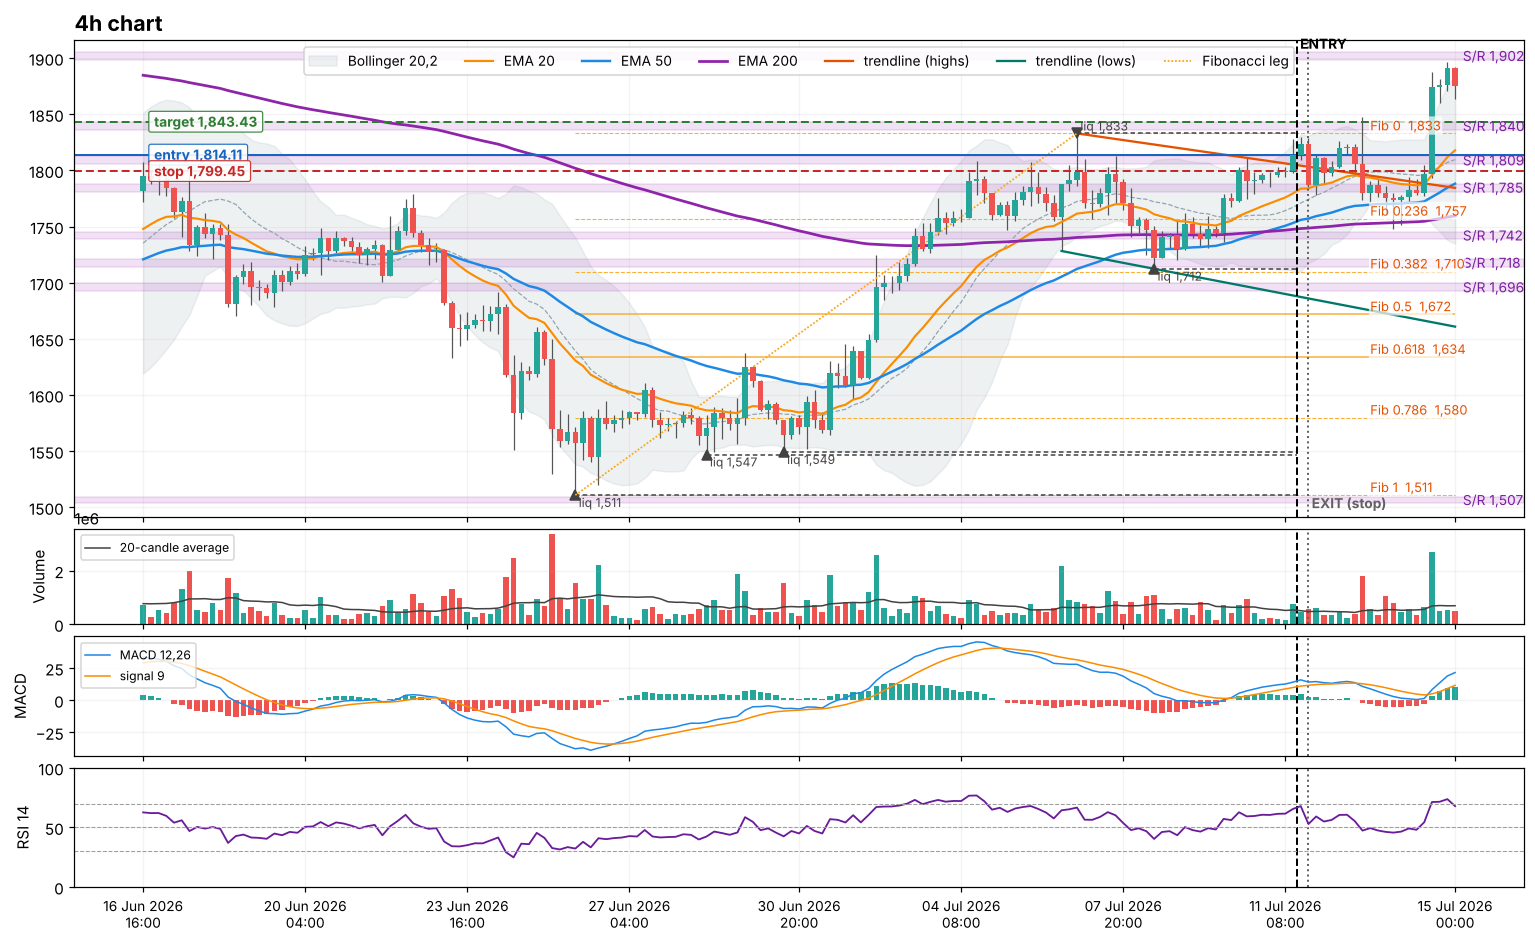
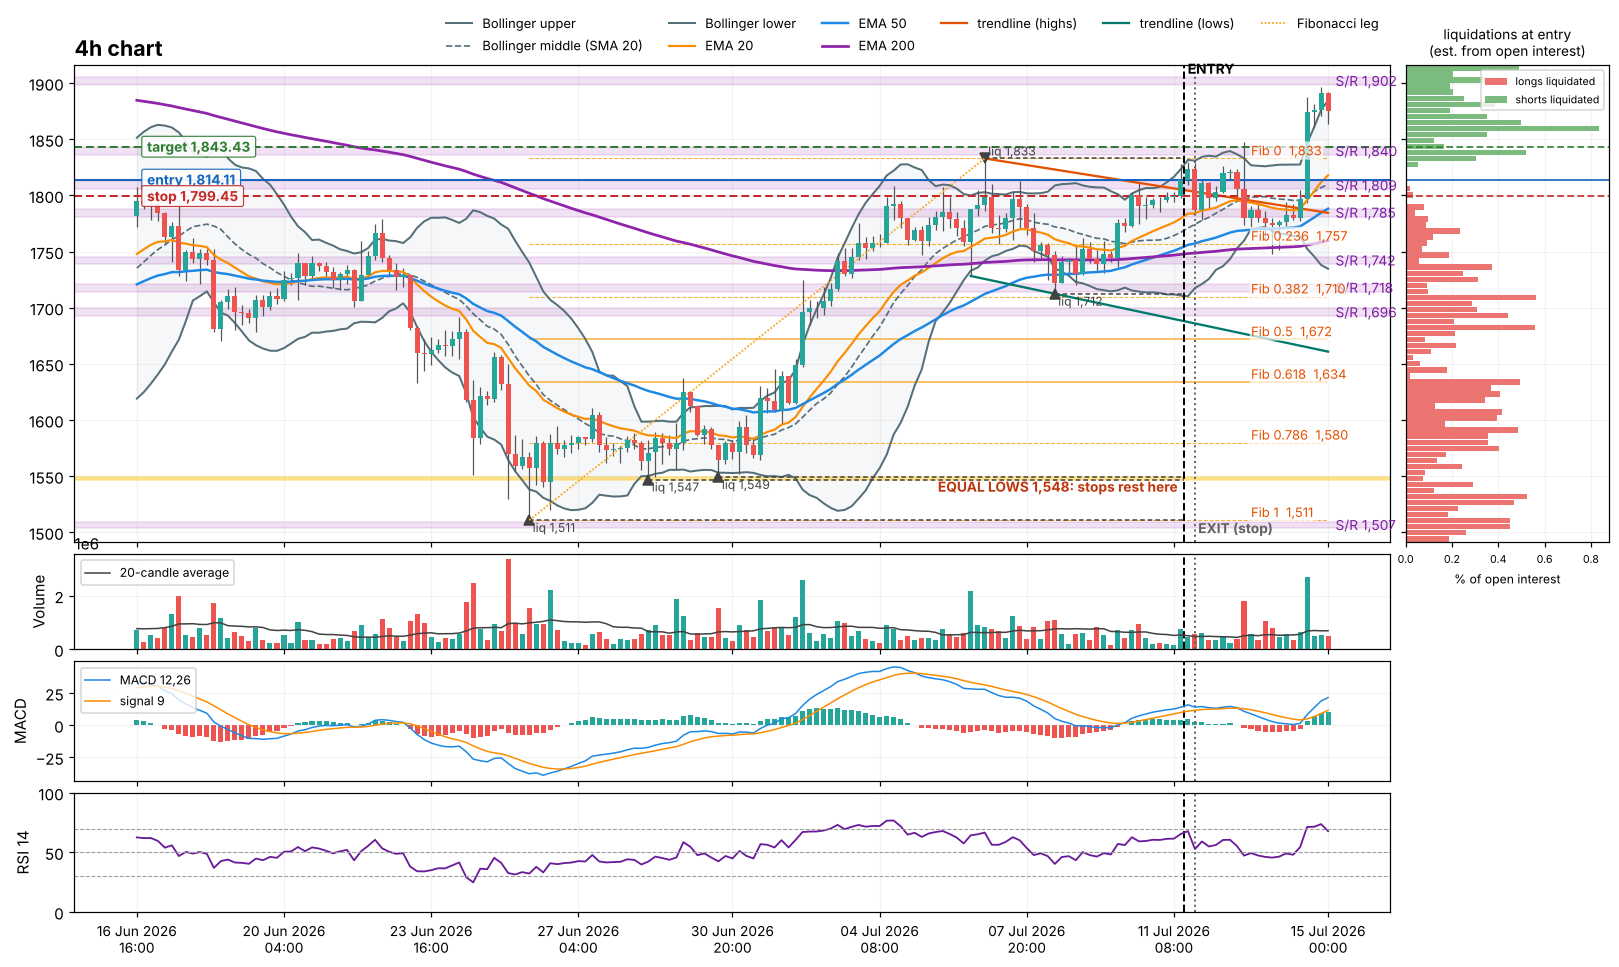
Journal charts: Bollinger upper/middle/lower lines, equal highs/lows, liquidation panel from open interest
Claude-Session: https://claude.ai/code/session_01Vt3ECMLxUk6mTvrtTCyxQY

Changed region(s): [[0.0, 0.0, 1.0, 0.9851]]

diff --git a/reports/review/index.html b/reports/review/index.html
@@ -129,7 +129,8 @@ details.tr > summary:focus-visible { outline: 2px solid var(--accent); outline-o
     Purple bands = support / resistance zones known at entry (price on the right). Dashed grey lines with triangles = untaken liquidity
     (swing highs / lows not yet traded through, with their price). Orange / teal = trendlines through the last two swing highs / lows.
     Yellow lines = Fibonacci retracements of the last leg (0.5 and 0.618 solid), orange dash-dot = Fibonacci extensions 1.272 / 1.618.
-    Averages: EMA 20 orange, EMA 50 blue, EMA 200 purple; grey band = Bollinger 20,2. Below: volume with its 20-candle average, MACD, RSI 14.</p>
+    Yellow bands = equal highs / lows, where stops rest. Right panel = estimated liquidations (red = longs, green = shorts).
+    Averages: EMA 20 orange, EMA 50 blue, EMA 200 purple. Bollinger 20,2: upper and lower = solid grey lines, middle = dashed grey. Below: volume with its 20-candle average, MACD, RSI 14.</p>
 
   <section class="card">
     <span class="step">What the bot saw (why it took the trade)</span>
@@ -162,6 +163,28 @@ details.tr > summary:focus-visible { outline: 2px solid var(--accent); outline-o
   </section>
 
   <section class="card">
+    <span class="step">Where traders would be liquidated (estimated from real Binance open interest at entry)</span>
+    <p>The panel on the right of each chart shows it. New positions opened in the last 30 days, at 10x to 100x leverage, and not yet liquidated:</p>
+    <div class="grid2">
+      <dl class="kv">
+        <dt>Shorts liquidated above</dt><dd></dd>
+        <dt>1,830 – 1,850</dt><dd>1.1% of open interest</dd>
+        <dt>1,850 – 1,870</dt><dd>2.0% (the biggest cluster)</dd>
+        <dt>1,870 – 1,940</dt><dd>3.5% in total</dd>
+      </dl>
+      <dl class="kv">
+        <dt>Longs liquidated below</dt><dd></dd>
+        <dt>1,780 – 1,790</dt><dd>0.2%</dd>
+        <dt>1,760 – 1,770</dt><dd>0.4%</dd>
+        <dt>1,690 – 1,750</dt><dd>3.0% in total</dd>
+      </dl>
+    </div>
+    <p>Far more short liquidations sat above (about 6.6%) than long liquidations close below. The dips to 1,778 and 1,748 only reached the top of the
+      long clusters; the run on 14 July went through the short clusters from 1,830 to 1,900. This is an estimate: I don't have the exchanges'
+      actual position data, only open interest changes and who was buying.</p>
+  </section>
+
+  <section class="card">
     <span class="step">What price did next, liquidity side by side</span>
     <ol>
       <li><b>11 Jul 23:20 – 12 Jul 00:30:</b> down to 1,778. It took the equal lows 1,794 / 1,794 and the lows at 1,785 and 1,779 (our stop at 1,799 went with them)
@@ -177,6 +200,8 @@ details.tr > summary:focus-visible { outline: 2px solid var(--accent); outline-o
     <ol>
       <li><b>The direction was right; the stop was in the most obvious place.</b> Our stop (1,799) sat just above equal lows at 1,794 / 1,794:
         the clearest sell-side liquidity on the chart, and only a 1h Fib 0.236 pullback away. A normal 0.382–0.5 pullback had to take it.</li>
+      <li><b>The bigger liquidation pool was above us.</b> About 6.6% of open interest in short liquidations sat between 1,830 and 1,940,
+        against little long liquidation just under our stop. Price took the small pool under us first, then went for the big one above.</li>
       <li><b>Price moves from one pool of liquidity to the next.</b> First the lows under our stop, then the 1,833 high, then the deeper lows
         at 1,775 / 1,768, then the daily high 1,849 and the 1.618 extension. The bot only read "breakout, go", not where the liquidity sat on both sides.</li>
       <li><b>We chased.</b> Entry came after the push: 1h RSI about 70, volume 5 times average, price at the upper Bollinger band. Bigger players

diff --git a/bot/study/review.py b/bot/study/review.py
@@ -174,7 +174,7 @@ def build_review(cfg: Config, out_dir: Path, which: str = "holdout") -> Path:
 BIG_BEFORE = {"15m": 160, "1h": 150, "4h": 150, "1D": 150}
 
 
-def plot_big(df5u: pd.DataFrame, tf: str, rule: str, t: dict, zones: np.ndarray, path: Path) -> dict:
+def plot_big(df5u: pd.DataFrame, tf: str, rule: str, t: dict, zones: np.ndarray, path: Path, liqmap=None) -> dict:
     """One timeframe, full width, readable. Returns the indicator readings at the entry (last closed candle)."""
     import matplotlib
     matplotlib.use("Agg")
@@ -193,14 +193,17 @@ def plot_big(df5u: pd.DataFrame, tf: str, rule: str, t: dict, zones: np.ndarray,
     lo = max(0, i_e - BIG_BEFORE[tf])
     hi = min(b.n, max(i_x + 20, i_e + 20), i_e + 80)
     x = np.arange(lo, hi)
-    fig = plt.figure(figsize=(17, 10))
-    gs = fig.add_gridspec(4, 1, height_ratios=[6, 1.2, 1.5, 1.5], hspace=0.06)
-    ax = fig.add_subplot(gs[0])
-    axv, axm, axr = (fig.add_subplot(gs[k], sharex=ax) for k in (1, 2, 3))
+    fig = plt.figure(figsize=(18, 10))
+    gs = fig.add_gridspec(4, 2, height_ratios=[6, 1.2, 1.5, 1.5], width_ratios=[11, 1.7], hspace=0.06, wspace=0.02)
+    ax = fig.add_subplot(gs[0, 0])
+    axv, axm, axr = (fig.add_subplot(gs[k, 0], sharex=ax) for k in (1, 2, 3))
+    axl = fig.add_subplot(gs[0, 1], sharey=ax) if liqmap is not None else None
     o, h, l, c = b.o[lo:hi], b.h[lo:hi], b.l[lo:hi], b.c[lo:hi]
     up = c >= o
-    ax.fill_between(x, bl[lo:hi], bu[lo:hi], color="#90a4ae", alpha=0.15, label="Bollinger 20,2", zorder=0)
-    ax.plot(x, bm[lo:hi], color="#90a4ae", linewidth=0.8, linestyle="--")
+    ax.fill_between(x, bl[lo:hi], bu[lo:hi], color="#90a4ae", alpha=0.08, zorder=0)
+    ax.plot(x, bu[lo:hi], color="#546e7a", linewidth=1.3, label="Bollinger upper")
+    ax.plot(x, bm[lo:hi], color="#546e7a", linewidth=1.1, linestyle="--", label="Bollinger middle (SMA 20)")
+    ax.plot(x, bl[lo:hi], color="#546e7a", linewidth=1.3, label="Bollinger lower")
     ax.vlines(x, l, h, color="#555", linewidth=0.8, zorder=2)
     ax.bar(x[up], (c - o)[up], bottom=o[up], color="#26a69a", width=0.72, zorder=3)
     ax.bar(x[~up], (c - o)[~up], bottom=o[~up], color="#ef5350", width=0.72, zorder=3)
@@ -232,6 +235,33 @@ def plot_big(df5u: pd.DataFrame, tf: str, rule: str, t: dict, zones: np.ndarray,
                 ax.text(i, p, f" liq {p:,.0f}", fontsize=8, color="#424242",
                         va="bottom" if side > 0 else "top")
                 liq.append((side, p))
+    # equal highs / lows: two untaken swings within 0.15% = stops resting there
+    for side in (1, -1):
+        ps = sorted(p for sd, p in liq if sd == side)
+        for p1, p2 in zip(ps, ps[1:]):
+            if abs(p2 - p1) / p1 <= 0.0015:
+                m_ = (p1 + p2) / 2
+                ax.axhspan(m_ * 0.9993, m_ * 1.0007, color="#ffca28", alpha=0.45, zorder=1.4)
+                ax.text(i_e - 1, m_, f"EQUAL {'HIGHS' if side > 0 else 'LOWS'} {m_:,.0f}: stops rest here ",
+                        ha="right", va="bottom" if side > 0 else "top", fontsize=9, fontweight="bold", color="#bf360c")
+    # estimated liquidation levels (real open interest), in their own panel on the right (same price scale)
+    if axl is not None:
+        (lp, lw), (sp_, sw_) = liqmap
+        edges = np.linspace(ymin - pad, ymax + pad, 80)
+        hl, _ = np.histogram(lp, bins=edges, weights=lw)
+        hs, _ = np.histogram(sp_, bins=edges, weights=sw_)
+        mids = (edges[:-1] + edges[1:]) / 2
+        hgt = (edges[1] - edges[0]) * 0.9
+        axl.barh(mids, hl * 100, height=hgt, color="#e53935", alpha=0.7, label="longs liquidated")
+        axl.barh(mids, hs * 100, height=hgt, color="#43a047", alpha=0.7, label="shorts liquidated")
+        axl.axhline(e, color="#1565c0", linewidth=1.1)
+        axl.axhline(s, color="#c62828", linewidth=1.1, linestyle=(0, (4, 2)))
+        axl.axhline(g, color="#2e7d32", linewidth=1.1, linestyle=(0, (4, 2)))
+        axl.set_title("liquidations at entry\n(est. from open interest)", fontsize=9)
+        axl.tick_params(labelleft=False, labelsize=7)
+        axl.set_xlabel("% of open interest", fontsize=8)
+        axl.legend(loc="upper right", fontsize=7)
+        axl.grid(alpha=0.15)
     # Fibonacci: the last leg in the trade direction inside the window, using only candles closed before entry.
     # Long: lowest low of the window -> highest high after it; retracements measured down from that high,
     # extensions up from the low (short: mirrored).
@@ -282,7 +312,7 @@ def plot_big(df5u: pd.DataFrame, tf: str, rule: str, t: dict, zones: np.ndarray,
     if i_x < hi:
         ax.text(i_x, ymin - pad * 0.6, " EXIT (stop)", fontsize=9, color="#616161", fontweight="bold")
     ax.set_ylim(ymin - pad, ymax + pad)
-    ax.legend(loc="upper center", fontsize=9, ncol=7, framealpha=0.85)
+    ax.legend(loc="lower right", bbox_to_anchor=(1.0, 1.0), fontsize=8.5, ncol=6, frameon=False)
     off = "" if i_x < hi else "   (exit is later, beyond the right edge)"
     ax.set_title(f"{tf} chart{off}", fontsize=14, loc="left", fontweight="bold")
     axv.bar(x, b.v[lo:hi], color=np.where(up, "#26a69a", "#ef5350"), width=0.72)

diff --git a/scripts/draw_h039.py b/scripts/draw_h039.py
@@ -1,0 +1,17 @@
+import pandas as pd
+from pathlib import Path
+from bot.config import load_config
+from bot.data import load_klines_5m
+from bot.study.levels import _level_table, strong_levels
+from bot.study.review import plot_big, TFS
+from bot.study.flow import load_flow
+from bot.study.liquidation import _hourly, load_oi_hourly, liq_levels
+cfg=load_config(); df5u,_=load_klines_5m(cfg.data_dir,cfg.symbol)
+hb_df=_hourly(load_flow(cfg.data_dir,cfg.symbol))
+hb={'t':hb_df['open_time'].to_numpy()}|{c:hb_df[c].to_numpy(float) for c in ('low','high','tp','volume','buy')}
+hb['oi']=load_oi_hourly(cfg.data_dir,cfg.symbol,hb_df['open_time'])
+t={'entry_time':pd.Timestamp('2026-07-11 16:00'),'exit_time':pd.Timestamp('2026-07-11 23:25'),'entry':1814.11,'risk':14.660043,'direction':1}
+t['stop']=t['entry']-t['risk']; t['target']=t['entry']+2*t['risk']
+lm=liq_levels(hb,t['entry_time'],'oi')
+z=strong_levels(_level_table(df5u), t['entry_time'].tz_localize('UTC'))
+for k,(tf,rule) in enumerate(TFS): plot_big(df5u,tf,rule,t,z,Path(f'reports/review/one/h039_{k+1}_{tf}.png'),lm)
